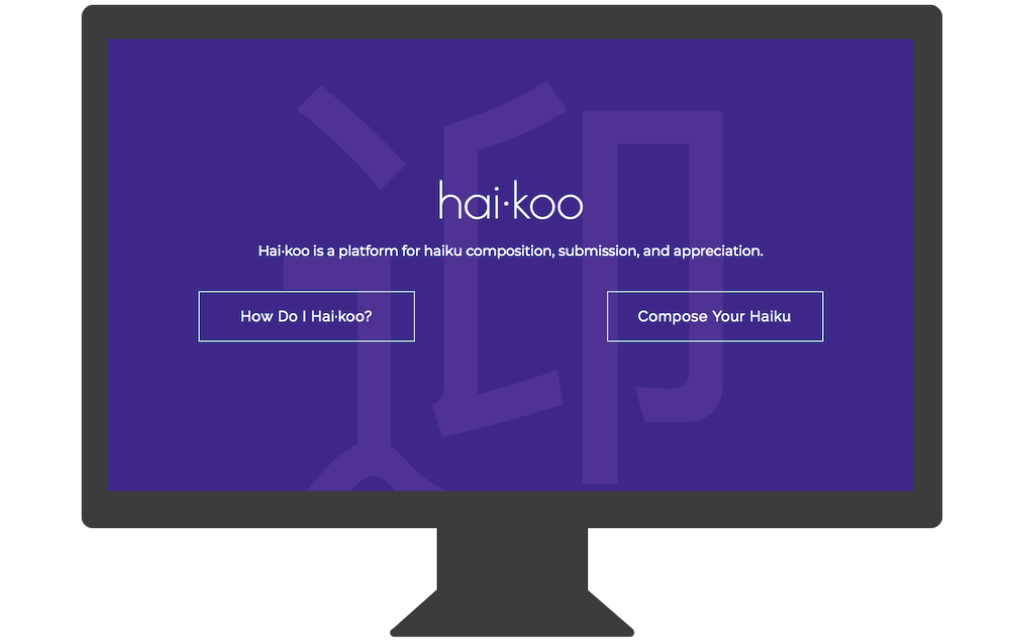
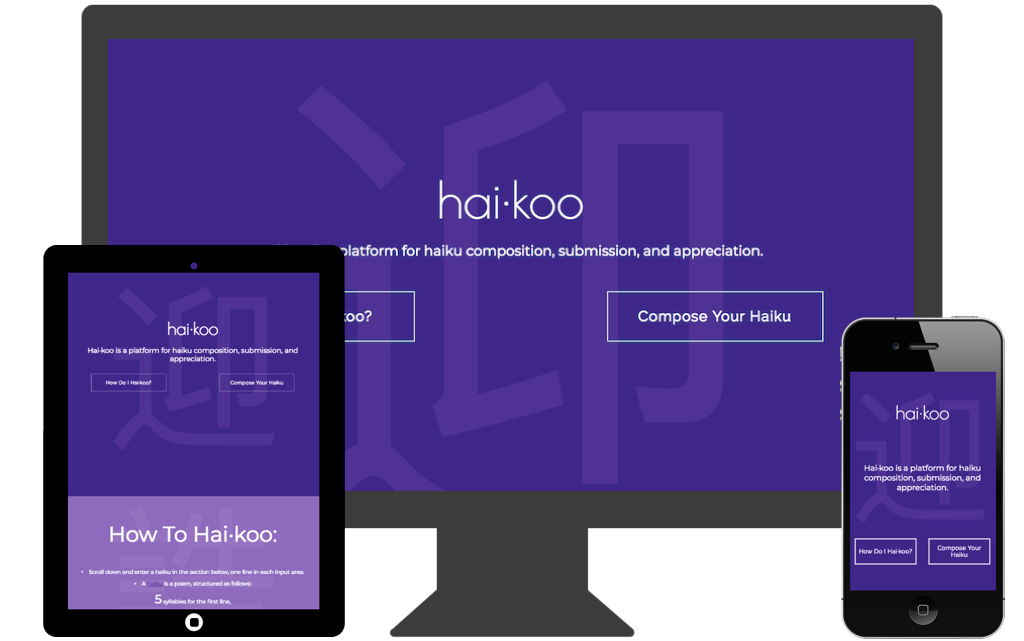
fix screenshot

Changed region(s): [[0.0312, 0.3744, 0.3438, 0.9984], [0.8125, 0.468, 1.0, 0.9984], [0.2188, 0.5928, 0.2812, 0.624]]

diff --git a/src/pages/index.js b/src/pages/index.js
@@ -21,7 +21,10 @@ import react from '../icons/react.png'
 import reduxForm from '../icons/redux form.png'
 
 import piqnicShot from '../screenshots/piqnic.png'
+
 import haikuMac from '../screenshots/haikuMac.png'
+import haikuTablet from '../screenshots/haikuTablet.png'
+import haikuPhone from '../screenshots/haikuIphone.png'
 
 import Scrollchor from 'react-scrollchor'
 
@@ -125,7 +128,20 @@ const PicniqScreenshot = styled.img`
   height: 300px;
 `;
 
+const Imac = styled.img`
+  height: 300px
+  display: block;
+  margin-left: auto;
+  margin-right: auto;
+`;
 
+const Tablet = styled.img`
+  height: 200px;
+`;
+
+const Phone = styled.img`
+  height: 250px;
+`;
 
 const IndexPage = () => (
   <div>
@@ -169,9 +185,9 @@ const IndexPage = () => (
       target={'_blank'}>
         www.piqnic.com
       </Url>
-      <PicniqScreenshot src={piqnicShot} alt={'picnic screenshot'} />
+
        <Description>
-        Description: An app that helps you quickly plan a picnic.
+        An app that helps you quickly plan a picnic.
       </Description>
       <IconWrapper>
         <Icon src={html} alt={'html logo'} />
@@ -190,7 +206,12 @@ const IndexPage = () => (
         target={'_blank'}>
         www.haikoo.com
       </Url>
-      <img src={haikuMac} />
+      <div>
+
+
+      <Imac src={haikuMac} />
+
+      </div>
       <Description>
         An app that syllable-checks your haiku, and let's you post and vote on other haikus!
       </Description>
